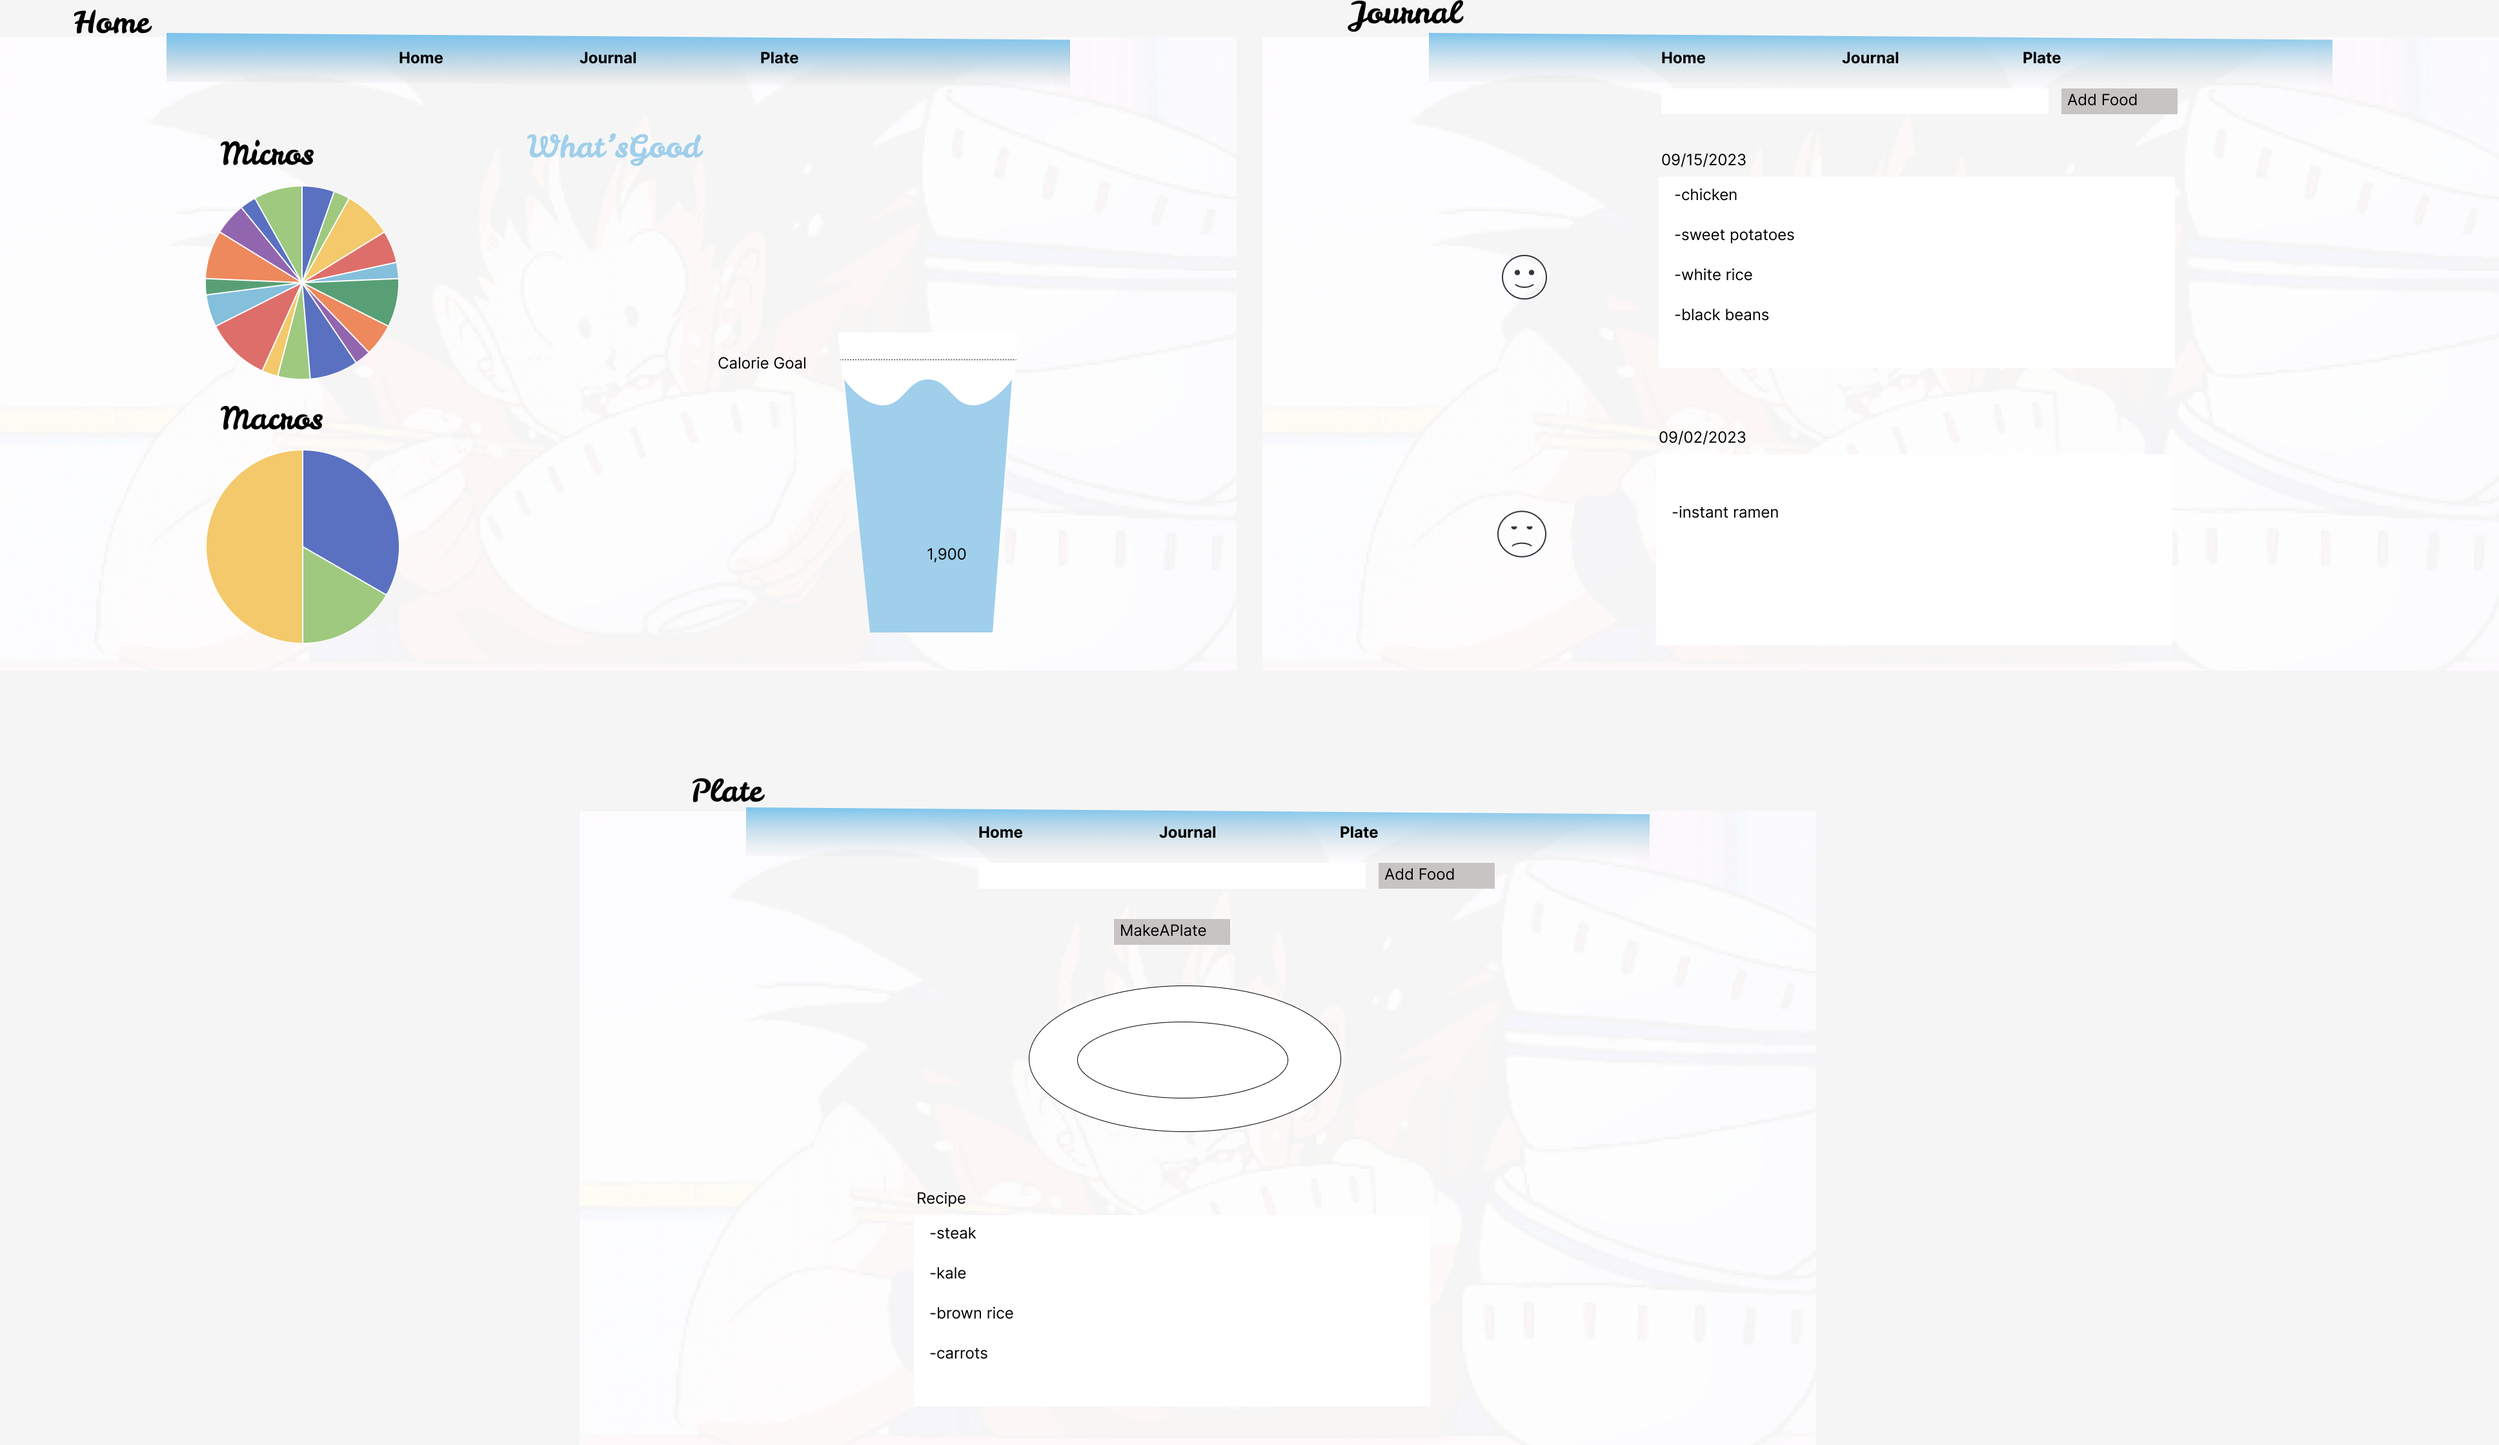
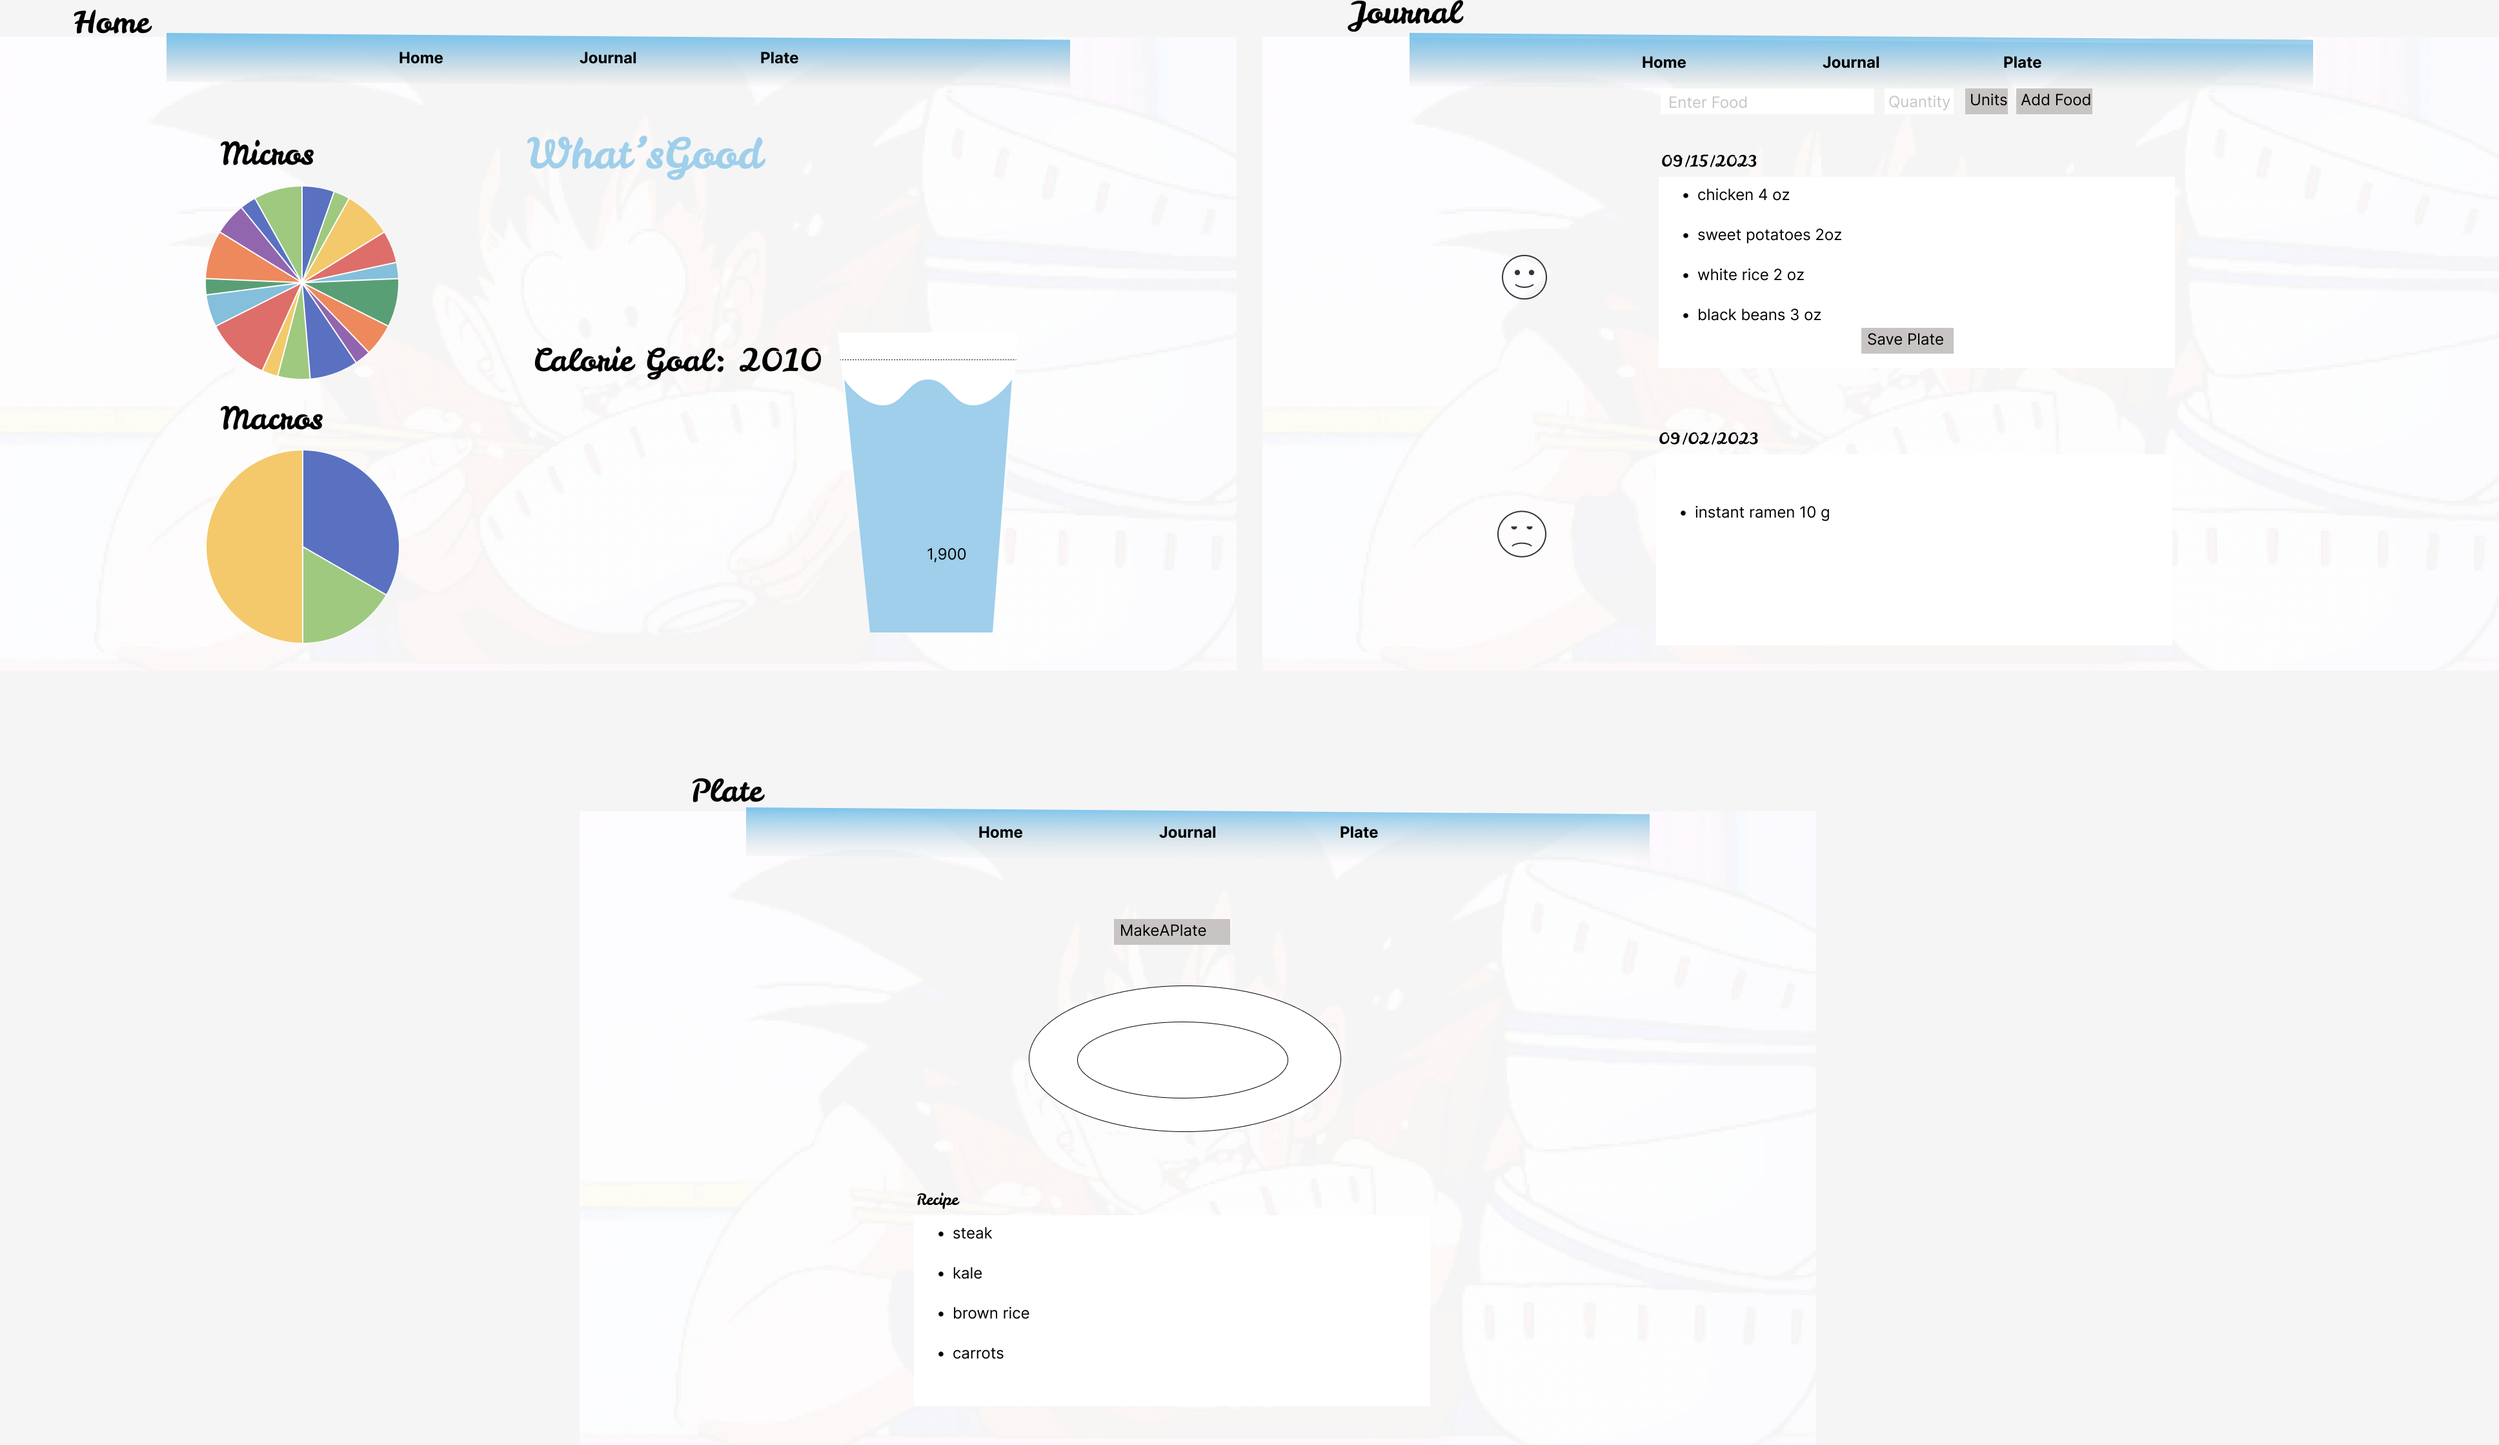
added input field for amount of food on journal screen and changed readme to reflect

diff --git a/README.md b/README.md
@@ -8,12 +8,15 @@
 - User enters home page
     - User sees navbar with links to home, journal entry, platemaker
     - “What’s Good” pops into screen 
-    - Body of home is populated with 2 pie charts (micronutrient and macronutrient) and a glass of water measuring calories with a line for calorie intake goal
+    - Body of home is populated with 2 pie charts (micronutrient and macronutrient) and a glass of water measuring calories with a line for calorie intake goal. If calorie intake is over line water spills
 - User enter journal entry
-    -	User sees navbar with links to home, journal entry, platemaker
-    -	User sees search bar with add food button
-    -	When user adds food from search new jornal box opens with food and populates with each additional entry underneath
-    - User sees happy face for healthy plates and sad face for unhealthy
+    - User sees navbar with links to home, journal entry, platemaker
+    - User sees search bar with add food button
+    - User sees input field for amount of food with dropdown menu for selecting units
+    - User sees empty box with save plate button
+    - When user adds food from search box populates food item
+    - Plate is finalized when user presses save plate button
+    - User sees happy face after finalizing plate for healthy plates and sad face for unhealthy
 - User enters platemaker
     - User sees navbar with links to home, journal entry, platemaker
     - User sees MakeAPlate button with empty plate underneath
